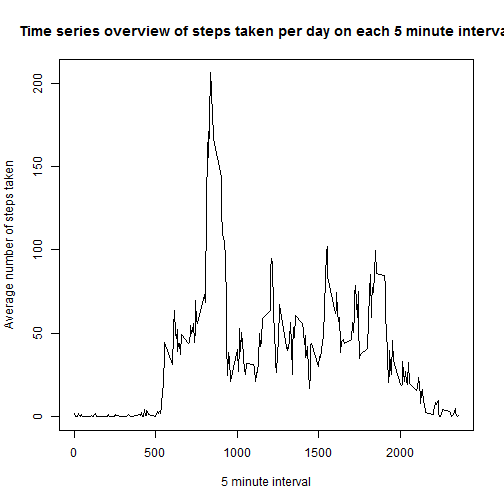
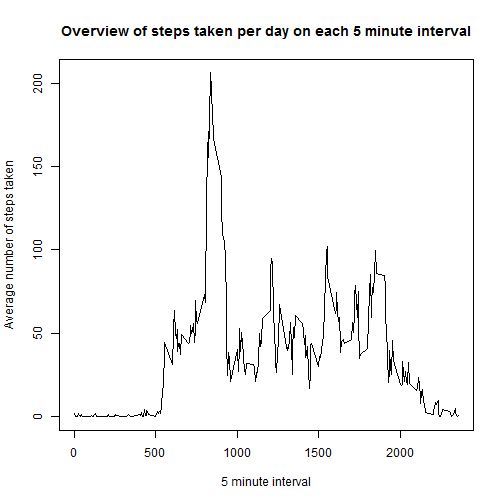
Small changes

Changed region(s): [[0.0298, 0.0298, 1.0, 0.0893]]

diff --git a/PA1_template.html b/PA1_template.html
@@ -233,7 +233,7 @@ head(activity)
 <pre><code>## [1] 17568     3
 </code></pre>
 
-<p>The date variable is now mutated to POSIXlt, as it is currently a factor variable. A year-month-date American style notation was used.</p>
+<p>The date variable is now mutated to POSIXct, as it is currently a factor variable. A year-month-date American style notation was used.</p>
 
 <pre><code class="r">activity$date &lt;- as.POSIXct(strptime(activity$date,&quot;%Y-%m-%d&quot;))
 </code></pre>
@@ -289,12 +289,12 @@ head(activity)
 
 <pre><code class="r">plot(interval$interval, interval$average, 
         type=&quot;l&quot;,
-        main=&quot;Time series overview of steps taken per day on each 5 minute interval&quot;,
+        main=&quot;Overview of steps taken per day on each 5 minute interval&quot;,
         xlab=&quot;5 minute interval&quot;,
         ylab=&quot;Average number of steps taken&quot;)
 </code></pre>
 
[2 lines of base64/hex data omitted]
 
 <p>Finally, find the 5 minute interval that has the maximum number of steps taken. From the graph above, it is expected this should be around interval 800-850</p>
 

diff --git a/PA1_template.md b/PA1_template.md
@@ -43,7 +43,7 @@ dim(activity)
 ## [1] 17568     3
 ```
 
-The date variable is now mutated to POSIXlt, as it is currently a factor variable. A year-month-date American style notation was used.
+The date variable is now mutated to POSIXct, as it is currently a factor variable. A year-month-date American style notation was used.
 
 
 ```r
@@ -113,7 +113,7 @@ Plot the time series, using base plotting system and a line graph
 ```r
 plot(interval$interval, interval$average, 
         type="l",
-        main="Time series overview of steps taken per day on each 5 minute interval",
+        main="Overview of steps taken per day on each 5 minute interval",
         xlab="5 minute interval",
         ylab="Average number of steps taken")
 ```
